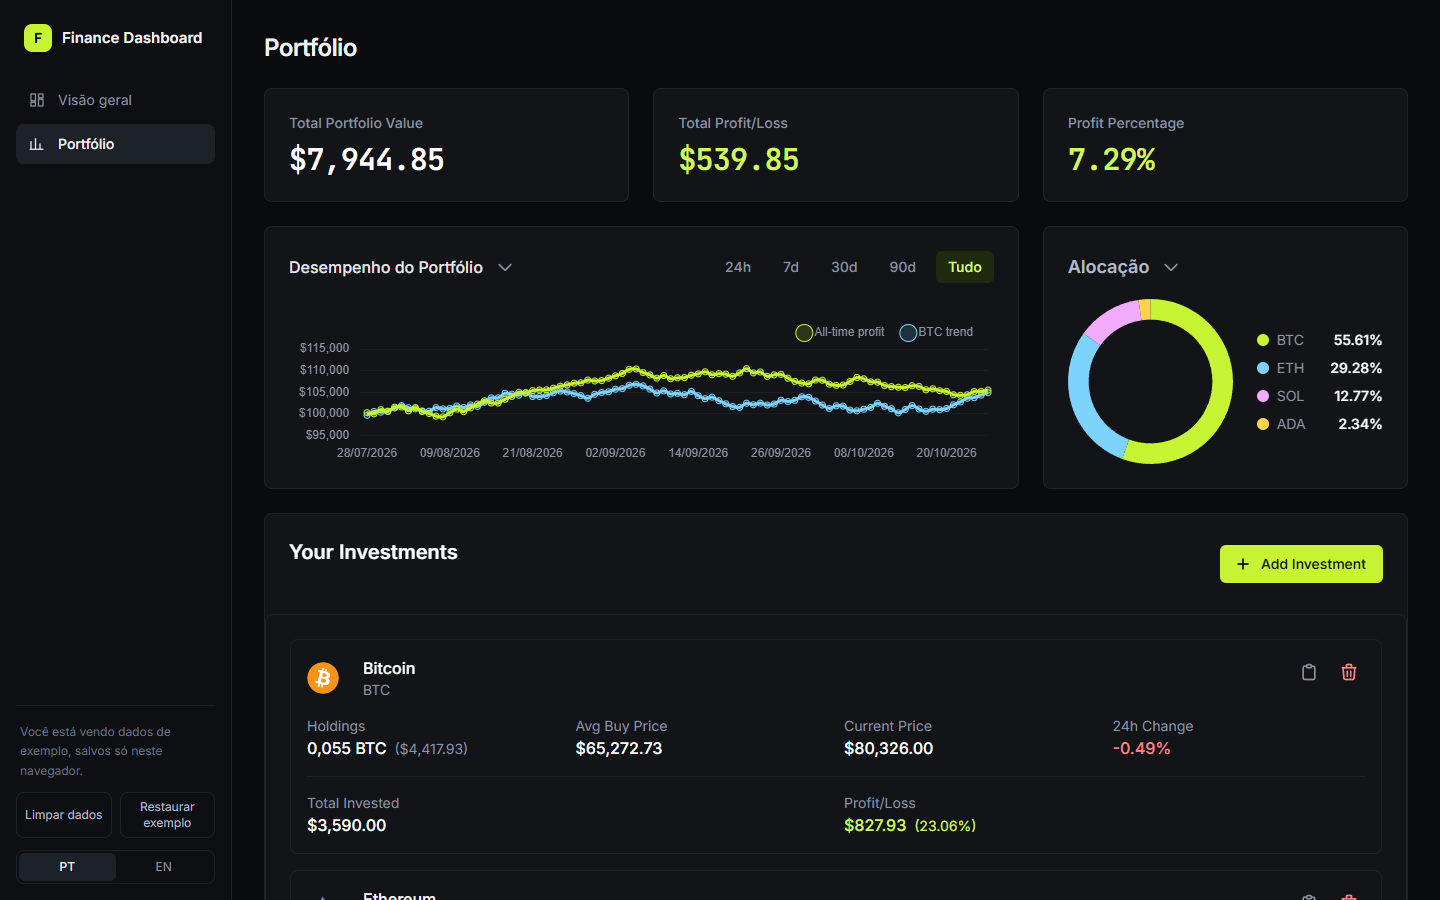
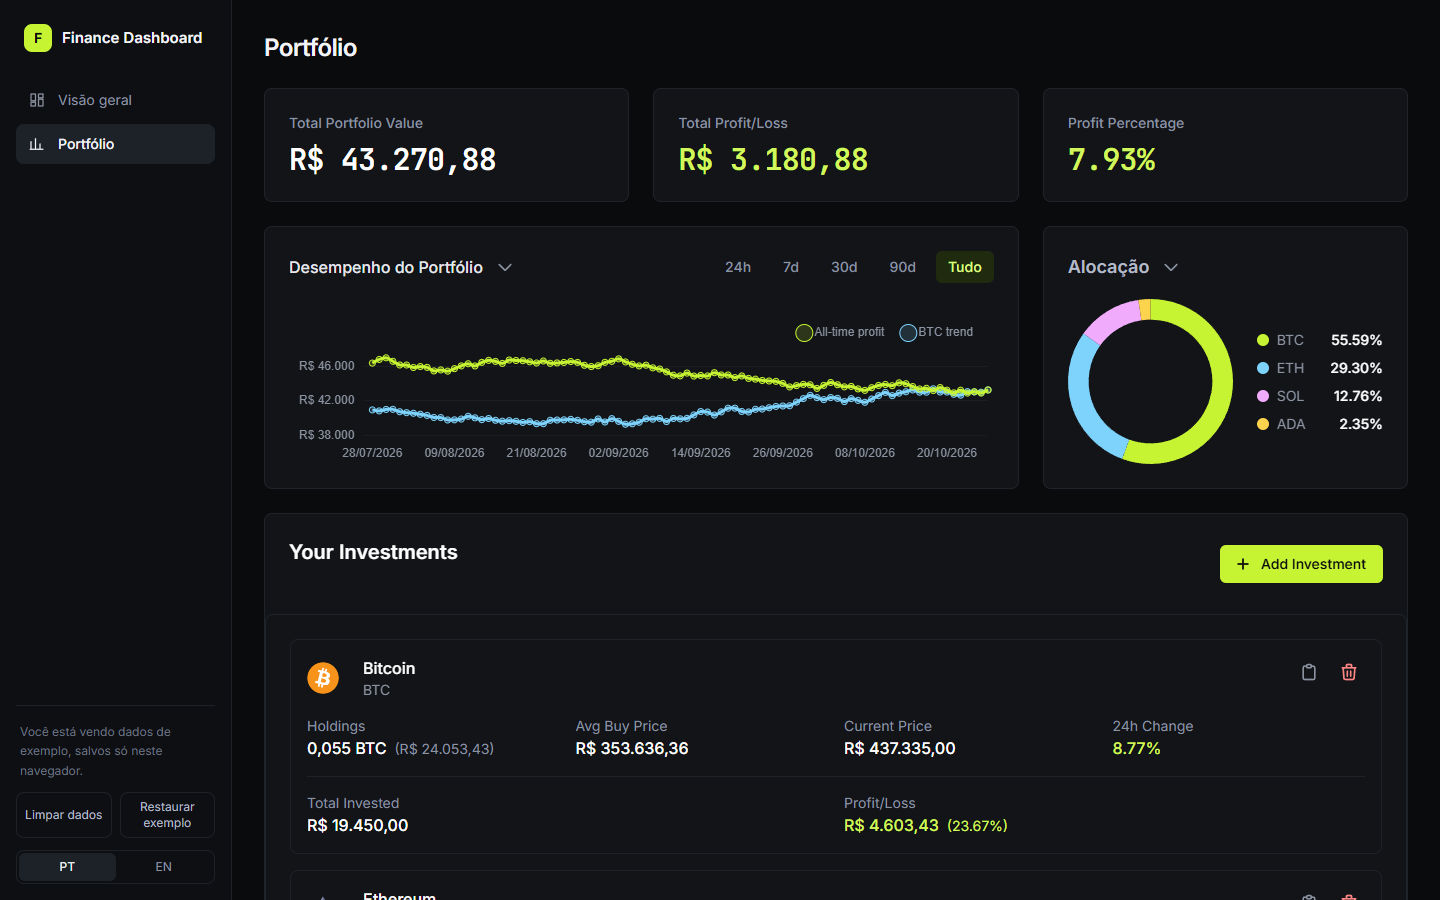
feat: Brazilian real everywhere, sample data in BRL
- formatarMoeda: BRL always, separators follow the language (tested)
- CoinGecko prices in BRL; goal inputs show R$
- Sample v2 in reais replaces an untouched v1 (dollar) sample
- Simulated history chart ends at the real portfolio value

diff --git a/src/demo/exemplo.ts b/src/demo/exemplo.ts
@@ -8,22 +8,26 @@ export const CHAVES = {
   metas: "finance_dashboard_goals",
   investimentos: "investmentStore",
   limpo: "finance_dashboard_cleared",
+  versao: "finance_dashboard_sample_version",
 } as const;
+
+// v2: valores em reais (a v1 era em dólar).
+const VERSAO = "2";
 
 type Lancamento = [dia: number, tipo: Transaction["type"], valor: number, descricao: string, categoria: string];
 
 // Um mês típico; os valores variam um pouco de mês para mês (fator abaixo).
 const MES: Lancamento[] = [
-  [3, "income", 5200, "Salário", "Salary"],
-  [5, "expense", 1450, "Aluguel", "Housing"],
-  [8, "expense", 182.4, "Conta de luz e internet", "Utilities"],
-  [10, "expense", 386.9, "Supermercado", "Food"],
-  [14, "income", 950, "Projeto freelance", "Freelance"],
-  [16, "expense", 64.5, "Combustível", "Transportation"],
-  [19, "expense", 129.9, "Farmácia e consulta", "Healthcare"],
-  [21, "expense", 74.3, "Cinema e jantar", "Entertainment"],
-  [24, "expense", 298.6, "Supermercado", "Food"],
-  [27, "expense", 215, "Roupas", "Shopping"],
+  [3, "income", 8400, "Salário", "Salary"],
+  [5, "expense", 2100, "Aluguel", "Housing"],
+  [8, "expense", 289.9, "Conta de luz e internet", "Utilities"],
+  [10, "expense", 642.35, "Supermercado", "Food"],
+  [14, "income", 1500, "Projeto freelance", "Freelance"],
+  [16, "expense", 260, "Combustível", "Transportation"],
+  [19, "expense", 212.4, "Farmácia e consulta", "Healthcare"],
+  [21, "expense", 148.9, "Cinema e jantar", "Entertainment"],
+  [24, "expense", 476.2, "Supermercado", "Food"],
+  [27, "expense", 349.9, "Roupas", "Shopping"],
 ];
 const FATOR = [0.94, 1.03, 0.97, 1.06, 0.99, 1.02];
 
@@ -32,11 +36,11 @@ const iso = (d: Date) =>
 const centavos = (v: number) => Math.round(v * 100) / 100;
 
 const CRIPTO = [
-  // Preços aproximados de out. 2026; ao abrir, a CoinGecko substitui pelos atuais.
-  { symbol: "BTC", name: "Bitcoin", compras: [[0.035, 61200], [0.02, 72400]], atual: 80360 },
-  { symbol: "ETH", name: "Ethereum", compras: [[0.6, 2610], [0.4, 2280]], atual: 2327 },
-  { symbol: "SOL", name: "Solana", compras: [[6, 118], [4, 92]], atual: 101.5 },
-  { symbol: "ADA", name: "Cardano", compras: [[900, 0.29]], atual: 0.21 },
+  // Preços em reais, aproximados de out. 2026; ao abrir, a CoinGecko substitui pelos atuais.
+  { symbol: "BTC", name: "Bitcoin", compras: [[0.035, 330000], [0.02, 395000]], atual: 437300 },
+  { symbol: "ETH", name: "Ethereum", compras: [[0.6, 14200], [0.4, 12100]], atual: 12670 },
+  { symbol: "SOL", name: "Solana", compras: [[6, 640], [4, 500]], atual: 552 },
+  { symbol: "ADA", name: "Cardano", compras: [[900, 1.6]], atual: 1.13 },
 ] as const;
 
 export const gerarExemplo = (hoje: Date) => {
@@ -55,9 +59,9 @@ export const gerarExemplo = (hoje: Date) => {
   const prazo = (meses: number) => iso(new Date(hoje.getFullYear(), hoje.getMonth() + meses, 15));
   const criada = iso(new Date(hoje.getFullYear(), hoje.getMonth() - 5, 2));
   const goals: Goal[] = [
-    { id: "exemplo-meta-1", name: "Reserva de emergência", type: "savings", targetAmount: 12000, currentAmount: 9150, deadline: prazo(6), priority: "high", notes: "Seis meses de despesas fixas.", createdAt: criada },
-    { id: "exemplo-meta-2", name: "Viagem para o Chile", type: "savings", targetAmount: 4000, currentAmount: 1560, deadline: prazo(9), priority: "medium", notes: "", createdAt: criada },
-    { id: "exemplo-meta-3", name: "Carteira de cripto", type: "investment", targetAmount: 8000, currentAmount: 6100, deadline: prazo(12), priority: "low", notes: "Aportes mensais em BTC e ETH.", createdAt: criada },
+    { id: "exemplo-meta-1", name: "Reserva de emergência", type: "savings", targetAmount: 30000, currentAmount: 22800, deadline: prazo(6), priority: "high", notes: "Seis meses de despesas fixas.", createdAt: criada },
+    { id: "exemplo-meta-2", name: "Viagem para o Chile", type: "savings", targetAmount: 9000, currentAmount: 3500, deadline: prazo(9), priority: "medium", notes: "", createdAt: criada },
+    { id: "exemplo-meta-3", name: "Carteira de cripto", type: "investment", targetAmount: 25000, currentAmount: 18600, deadline: prazo(12), priority: "low", notes: "Aportes mensais em BTC e ETH.", createdAt: criada },
   ];
 
   const operacoes: Operacao[] = [];
@@ -97,10 +101,26 @@ const gravar = (storage: Storage, hoje: Date) => {
   storage.setItem(CHAVES.transacoes, JSON.stringify(transactions));
   storage.setItem(CHAVES.metas, JSON.stringify(goals));
   storage.setItem(CHAVES.investimentos, JSON.stringify(investments));
+  storage.setItem(CHAVES.versao, VERSAO);
+};
+
+// Exemplo antigo e intocado (só ids "exemplo-"): pode ser trocado pela versão atual.
+const exemploAntigo = (storage: Storage) => {
+  if (storage.getItem(CHAVES.versao) === VERSAO) return false;
+  try {
+    const lista: { id: string }[] = JSON.parse(storage.getItem(CHAVES.transacoes) ?? "[]");
+    return lista.length > 0 && lista.every((t) => String(t.id).startsWith("exemplo-"));
+  } catch {
+    return false;
+  }
 };
 
 // Só semeia um navegador sem nenhum dado e que não pediu para limpar.
 export const semearSeVazio = (storage: Storage, hoje = new Date()): boolean => {
+  if (exemploAntigo(storage)) {
+    gravar(storage, hoje);
+    return true;
+  }
   const temAlgo = [CHAVES.transacoes, CHAVES.metas, CHAVES.investimentos, CHAVES.limpo].some((k) => storage.getItem(k) !== null);
   if (temAlgo) return false;
   gravar(storage, hoje);

diff --git a/src/components/PortfolioHistoryChart.vue b/src/components/PortfolioHistoryChart.vue
@@ -51,6 +51,7 @@
 </template>
 
 <script setup lang="ts">
+import { formatarMoeda } from "@/utils/moeda";
 import { ref, computed } from "vue";
 import {
   Chart as ChartJS,
@@ -63,6 +64,7 @@ import {
   Legend,
 } from "chart.js";
 import { Line } from "vue-chartjs";
+import { useInvestmentStore } from "@/store/investments";
 import { useI18n } from "vue-i18n";
 
 const { t } = useI18n();
@@ -88,11 +90,20 @@ const periods = [
 const selectedPeriod = ref("all");
 const isCollapsed = ref(false);
 
+const investmentStore = useInvestmentStore();
+
+// O histórico é simulado; a escala faz a curva terminar no valor atual da carteira.
+const naEscala = (valores: number[]) => {
+  const alvo = investmentStore.currentValue || 10000;
+  const fator = alvo / valores[valores.length - 1];
+  return valores.map((v) => v * fator);
+};
+
 const chartData = computed(() => {
   // Simulando dados históricos por enquanto
   const dates = generateDates();
-  const portfolioValues = generatePortfolioValues(dates);
-  const btcTrendValues = generateBTCTrendValues(dates);
+  const portfolioValues = naEscala(generatePortfolioValues(dates));
+  const btcTrendValues = naEscala(generateBTCTrendValues(dates));
 
   return {
     labels: dates.map((date) => date.toLocaleDateString()),
@@ -144,12 +155,7 @@ const chartOptions = {
       displayColors: false,
       callbacks: {
         label: (context: any) => {
-          return new Intl.NumberFormat("en-US", {
-            style: "currency",
-            currency: "USD",
-            minimumFractionDigits: 0,
-            maximumFractionDigits: 0,
-          }).format(context.raw);
+          return formatarMoeda(context.raw, undefined, { maximumFractionDigits: 0 });
         },
       },
     },
@@ -176,12 +182,7 @@ const chartOptions = {
         color: "#8b93a1",
         padding: 10,
         callback: function (this: any, tickValue: string | number) {
-          return new Intl.NumberFormat("en-US", {
-            style: "currency",
-            currency: "USD",
-            minimumFractionDigits: 0,
-            maximumFractionDigits: 0,
-          }).format(Number(tickValue));
+          return formatarMoeda(Number(tickValue), undefined, { maximumFractionDigits: 0 });
         },
       },
     },

diff --git a/src/components/GoalFormModal.vue b/src/components/GoalFormModal.vue
@@ -132,12 +132,12 @@
             <div class="relative">
               <span
                 class="absolute left-3 top-1/2 -translate-y-1/2 text-gray-500 dark:text-gray-400"
-                >$</span
+                >R$</span
               >
               <input
                 type="number"
                 v-model="form.targetAmount"
-                class="w-full pl-8 p-3 border rounded-lg dark:bg-gray-700 focus:ring-2 focus:ring-blue-500 focus:border-blue-500"
+                class="w-full pl-10 p-3 border rounded-lg dark:bg-gray-700 focus:ring-2 focus:ring-blue-500 focus:border-blue-500"
                 :class="{
                   'border-red-500':
                     formErrors.targetAmount && !form.targetAmount,
@@ -166,12 +166,12 @@
             <div class="relative">
               <span
                 class="absolute left-3 top-1/2 -translate-y-1/2 text-gray-500 dark:text-gray-400"
-                >$</span
+                >R$</span
               >
               <input
                 type="number"
                 v-model="form.currentAmount"
-                class="w-full pl-8 p-3 border rounded-lg dark:bg-gray-700 focus:ring-2 focus:ring-blue-500 focus:border-blue-500"
+                class="w-full pl-10 p-3 border rounded-lg dark:bg-gray-700 focus:ring-2 focus:ring-blue-500 focus:border-blue-500"
                 :class="{
                   'border-red-500':
                     formErrors.currentAmount && !form.currentAmount,

diff --git a/src/demo/exemplo.test.ts b/src/demo/exemplo.test.ts
@@ -73,3 +73,19 @@ describe("storage", () => {
     expect(JSON.parse(localStorage.getItem(CHAVES.transacoes)!).length).toBeGreaterThan(10);
   });
 });
+
+describe("versions", () => {
+  beforeEach(() => localStorage.clear());
+
+  it("replaces an older sample (dollars) with the current one", () => {
+    localStorage.setItem(CHAVES.transacoes, JSON.stringify([{ id: "exemplo-velho", amount: 5200 }]));
+    expect(semearSeVazio(localStorage, hoje)).toBe(true);
+    const salario = JSON.parse(localStorage.getItem(CHAVES.transacoes)!).find((t: { category: string }) => t.category === "Salary");
+    expect(salario.amount).toBe(8400);
+  });
+
+  it("keeps an older sample the user has edited", () => {
+    localStorage.setItem(CHAVES.transacoes, JSON.stringify([{ id: "exemplo-velho" }, { id: "1761500000000" }]));
+    expect(semearSeVazio(localStorage, hoje)).toBe(false);
+  });
+});

diff --git a/src/components/TransactionList.vue b/src/components/TransactionList.vue
@@ -50,9 +50,8 @@
                 : 'text-red-600 dark:text-red-400',
             ]"
           >
-            {{ transaction.type === "income" ? "+" : "-" }}${{
-              transaction.amount.toFixed(2)
-            }}
+            {{ transaction.type === "income" ? "+" : "-" }}
+            {{ formatarMoeda(transaction.amount) }}
           </p>
           <div class="flex items-center sm:space-x-2">
             <button
@@ -158,6 +157,7 @@ import { storeToRefs } from "pinia";
 import { useToast } from "vue-toastification";
 import EditTransactionModal from "./EditTransactionModal.vue";
 import ConfirmationModal from "./ConfirmationModal.vue";
+import { formatarMoeda } from "@/utils/moeda";
 import { useI18n } from "vue-i18n";
 
 const { t, locale } = useI18n();

diff --git a/src/utils/moeda.test.ts b/src/utils/moeda.test.ts
@@ -1,0 +1,15 @@
+import { describe, it, expect } from "vitest";
+import { formatarMoeda } from "./moeda";
+
+const limpo = (s: string) => s.replace(/\s/g, " ");
+
+describe("formatarMoeda", () => {
+  it("always uses reais; the language only changes separators", () => {
+    expect(limpo(formatarMoeda(20291.16, "pt-BR"))).toBe("R$ 20.291,16");
+    expect(limpo(formatarMoeda(20291.16, "en-US"))).toBe("R$20,291.16");
+  });
+  it("accepts rounding options and treats NaN as zero", () => {
+    expect(limpo(formatarMoeda(104000.4, "pt-BR", { maximumFractionDigits: 0 }))).toBe("R$ 104.000");
+    expect(limpo(formatarMoeda(NaN, "pt-BR"))).toBe("R$ 0,00");
+  });
+});

diff --git a/src/utils/moeda.ts b/src/utils/moeda.ts
@@ -1,0 +1,15 @@
+import i18n from "@/i18n";
+
+// O app guarda valores em reais. O idioma muda só a pontuação (R$ 1.234,56 / R$1,234.56),
+// nunca a moeda: trocar o símbolo sem converter mostraria valores errados.
+export const MOEDA = "BRL";
+
+// Ler o locale do i18n dentro do render deixa o valor reativo à troca de idioma.
+export const formatarMoeda = (
+  valor: number,
+  locale: string = i18n.global.locale.value,
+  opcoes: Intl.NumberFormatOptions = {}
+): string =>
+  new Intl.NumberFormat(locale, { style: "currency", currency: MOEDA, ...opcoes }).format(
+    Number.isNaN(valor) ? 0 : valor
+  );

diff --git a/src/components/InvestmentFormModal.vue b/src/components/InvestmentFormModal.vue
@@ -226,6 +226,7 @@
 </template>
 
 <script setup lang="ts">
+import { formatarMoeda } from "@/utils/moeda";
 import { ref, computed, watch } from "vue";
 import { useInvestmentStore } from "@/store/investments";
 import type { Transaction } from "@/store/investments";
@@ -298,10 +299,7 @@ const formErrors = ref({
 const today = computed(() => new Date().toISOString().split("T")[0]);
 
 const formatCurrency = (value: number) => {
-  return new Intl.NumberFormat("en-US", {
-    style: "currency",
-    currency: "USD",
-  }).format(value);
+  return formatarMoeda(value);
 };
 
 const validateForm = () => {

diff --git a/src/components/InvestmentList.vue b/src/components/InvestmentList.vue
@@ -240,6 +240,7 @@
 </template>
 
 <script setup lang="ts">
+import { formatarMoeda } from "@/utils/moeda";
 import { ref, computed, onMounted, watch } from "vue";
 import { useInvestmentStore } from "@/store/investments";
 import { storeToRefs } from "pinia";
@@ -281,11 +282,7 @@ const investmentList = computed(() => {
 });
 
 const formatCurrency = (value: number) => {
-  if (isNaN(value)) return "$0.00";
-  return new Intl.NumberFormat("en-US", {
-    style: "currency",
-    currency: "USD",
-  }).format(value);
+    return formatarMoeda(value);
 };
 
 const getPriceChange24h = (symbol: string) => {

diff --git a/src/components/SelectCryptoModal.vue b/src/components/SelectCryptoModal.vue
@@ -128,6 +128,7 @@
 </template>
 
 <script setup lang="ts">
+import { formatarMoeda } from "@/utils/moeda";
 import { ref, computed, watch } from "vue";
 import type { CryptoPrice } from "@/services/cryptoService";
 import { getCryptoPrices } from "@/services/cryptoService";
@@ -170,10 +171,7 @@ const close = () => {
 };
 
 const formatCurrency = (value: number) => {
-  return new Intl.NumberFormat("en-US", {
-    style: "currency",
-    currency: "USD",
-  }).format(value);
+  return formatarMoeda(value);
 };
 
 // Fetch available cryptocurrencies when component is mounted

diff --git a/src/components/CryptoTransactions.vue b/src/components/CryptoTransactions.vue
@@ -226,6 +226,7 @@
 </template>
 
 <script setup lang="ts">
+import { formatarMoeda } from "@/utils/moeda";
 import { computed, ref } from "vue";
 import EditTransactionModal from "./EditTransactionModal.vue";
 import ConfirmationModal from "./ConfirmationModal.vue";
@@ -279,10 +280,7 @@ const currentValue = computed(() => {
 });
 
 const formatCurrency = (value: number) => {
-  return new Intl.NumberFormat("en-US", {
-    style: "currency",
-    currency: "USD",
-  }).format(value);
+  return formatarMoeda(value);
 };
 
 const formatDate = (date: string) => {

diff --git a/src/pages/Dashboard.vue b/src/pages/Dashboard.vue
@@ -543,6 +543,7 @@
 </template>
 
 <script setup lang="ts">
+import { formatarMoeda } from "@/utils/moeda";
 import { ref, computed } from "vue";
 import { useI18n } from "vue-i18n";
 import { useTransactionStore } from "@/store/transactions";
@@ -607,10 +608,7 @@ const doMes = (tipo: "income" | "expense") => {
 };
 
 const formatCurrency = (value: number) => {
-  return new Intl.NumberFormat("en-US", {
-    style: "currency",
-    currency: "USD",
-  }).format(value);
+  return formatarMoeda(value);
 };
 
 const editGoal = (goal: Goal) => {
